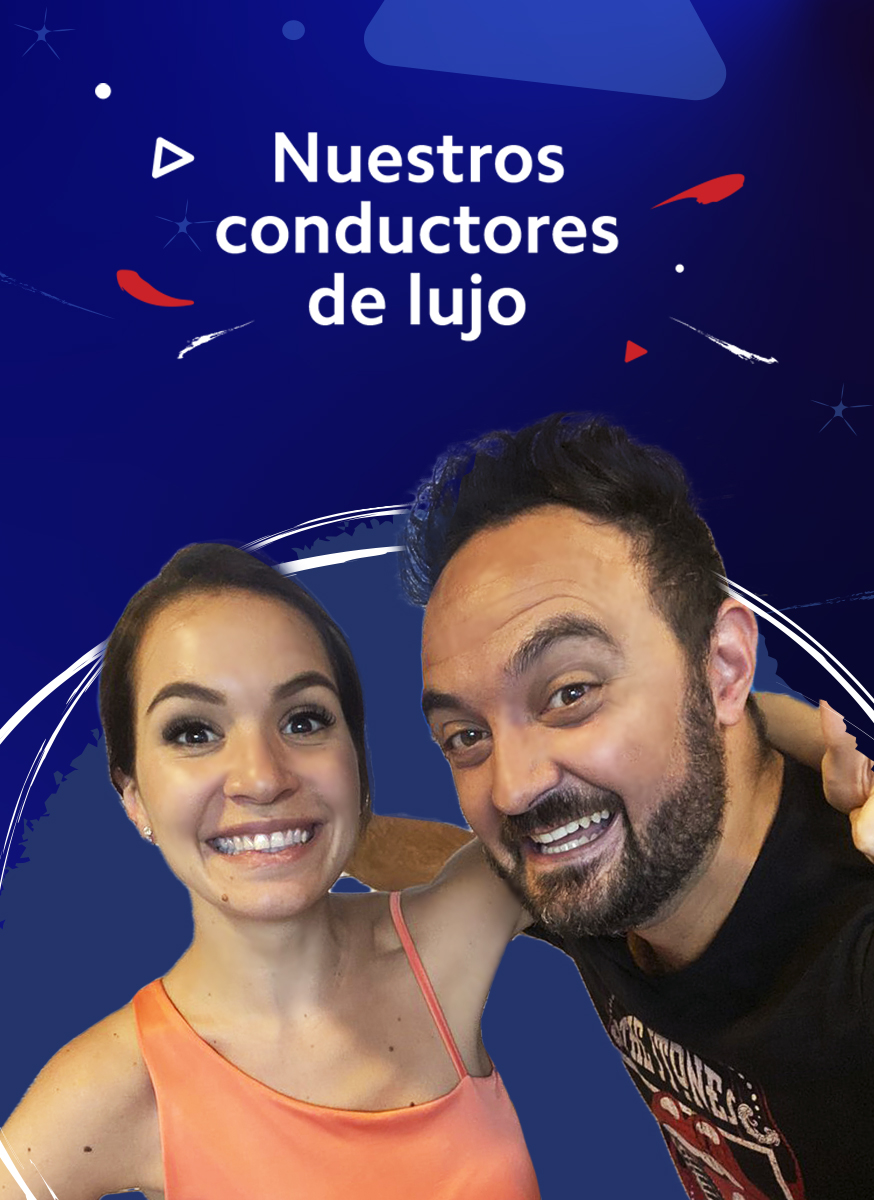
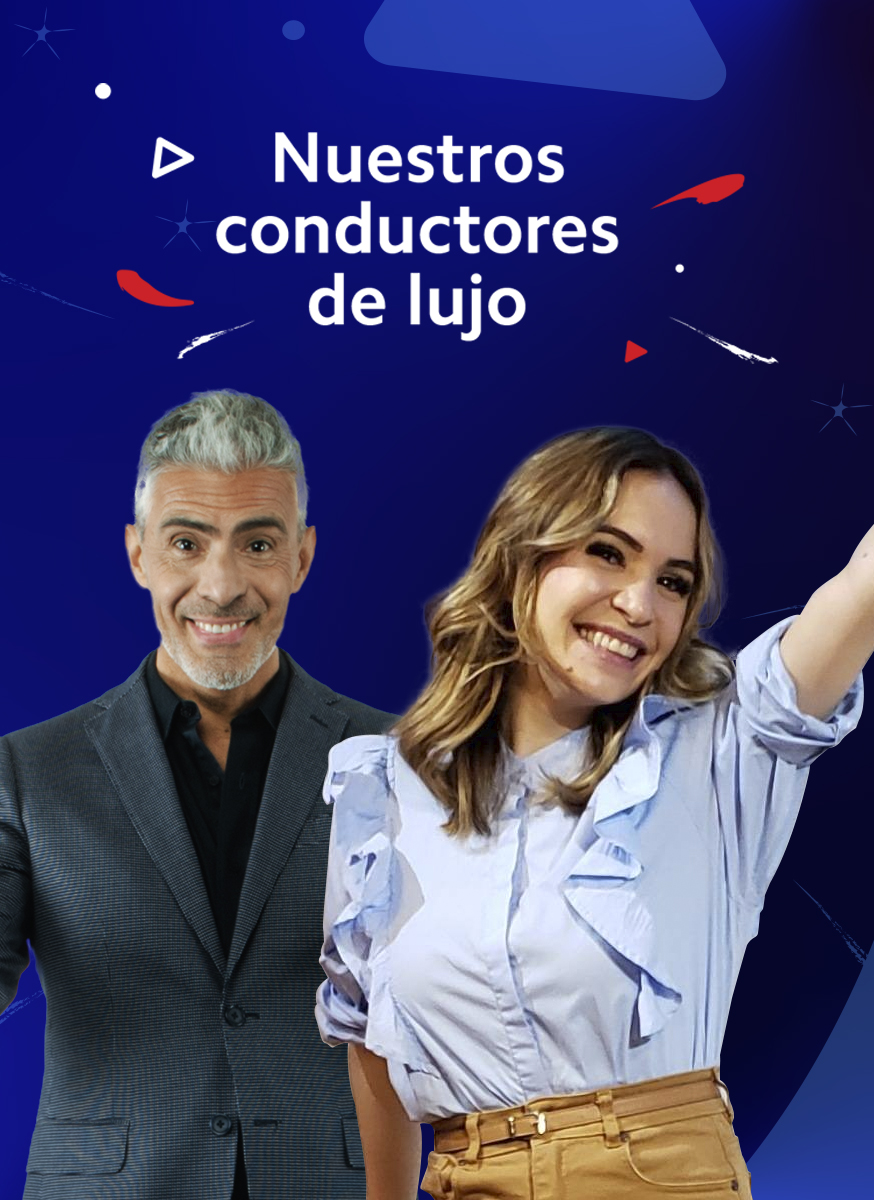
news

diff --git a/src/Pages/SliderHome.js b/src/Pages/SliderHome.js
@@ -6,10 +6,12 @@ import Carousel from 'react-bootstrap/Carousel'
 import image_1 from '../assets/CarouselHome/image_1.jpg'
 import image_2 from '../assets/CarouselHome/image_2.jpg'
 import image_3 from '../assets/CarouselHome/image_3.jpg'
+import image_4 from '../assets/CarouselHome/image_4.jpg'
 
 import image_1_responsive from '../assets/CarouselHome/image_1_responsive.jpg'
 import image_2_responsive from '../assets/CarouselHome/image_2_responsive.jpg'
 import image_3_responsive from '../assets/CarouselHome/image_3_responsive.jpg'
+import image_4_responsive from '../assets/CarouselHome/image_4_responsive.jpg'
 
 
 
@@ -40,10 +42,13 @@ class SliderHome extends React.Component {
         var img_1 = image_1;
         var img_2 = image_2;
         var img_3 = image_3;
+        var img_4 = image_4;
+
         if (!min) {
             img_1 = image_1_responsive;
             img_2 = image_2_responsive;
             img_3 = image_3_responsive;
+            img_4 = image_4_responsive;
 
         }
         if (!min) {
@@ -70,6 +75,19 @@ class SliderHome extends React.Component {
                                         <Grid container justify='center' alignItems='center'>
                                             <div style={{ maxHeight: window.innerHeight }}>
                                                 <img src={img_2} style={{marginTop: 50, width: '100%', height: '100%' }}></img>
+                                            </div>
+
+                                        </Grid>
+                                    </Grid>
+
+                                </div>
+                            </Carousel.Item>
+                            <Carousel.Item>
+                                <div style={{ display: 'flex', flexDirection: 'row' }}>
+                                    <Grid item xs={12} sm={12}>
+                                        <Grid container justify='center' alignItems='center'>
+                                            <div style={{ maxHeight: window.innerHeight }}>
+                                                <img src={img_4} style={{marginTop: 50, width: '100%', height: '100%' }}></img>
                                             </div>
 
                                         </Grid>
@@ -119,6 +137,18 @@ class SliderHome extends React.Component {
                                         <Grid container justify='center' alignItems='center'>
                                             <div style={{ maxHeight: window.innerHeight }}>
                                                 <img src={img_3} style={{ width: '100%', height: '100%' }}></img>
+                                            </div>
+                                        </Grid>
+                                    </Grid>
+
+                                </div>
+                            </Carousel.Item>
+                            <Carousel.Item>
+                                <div style={{ display: 'flex', flexDirection: 'row' }}>
+                                    <Grid item xs={12} sm={12}>
+                                        <Grid container justify='center' alignItems='center'>
+                                            <div style={{ maxHeight: window.innerHeight }}>
+                                                <img src={img_4} style={{ width: '100%', height: '100%' }}></img>
                                             </div>
                                         </Grid>
                                     </Grid>
